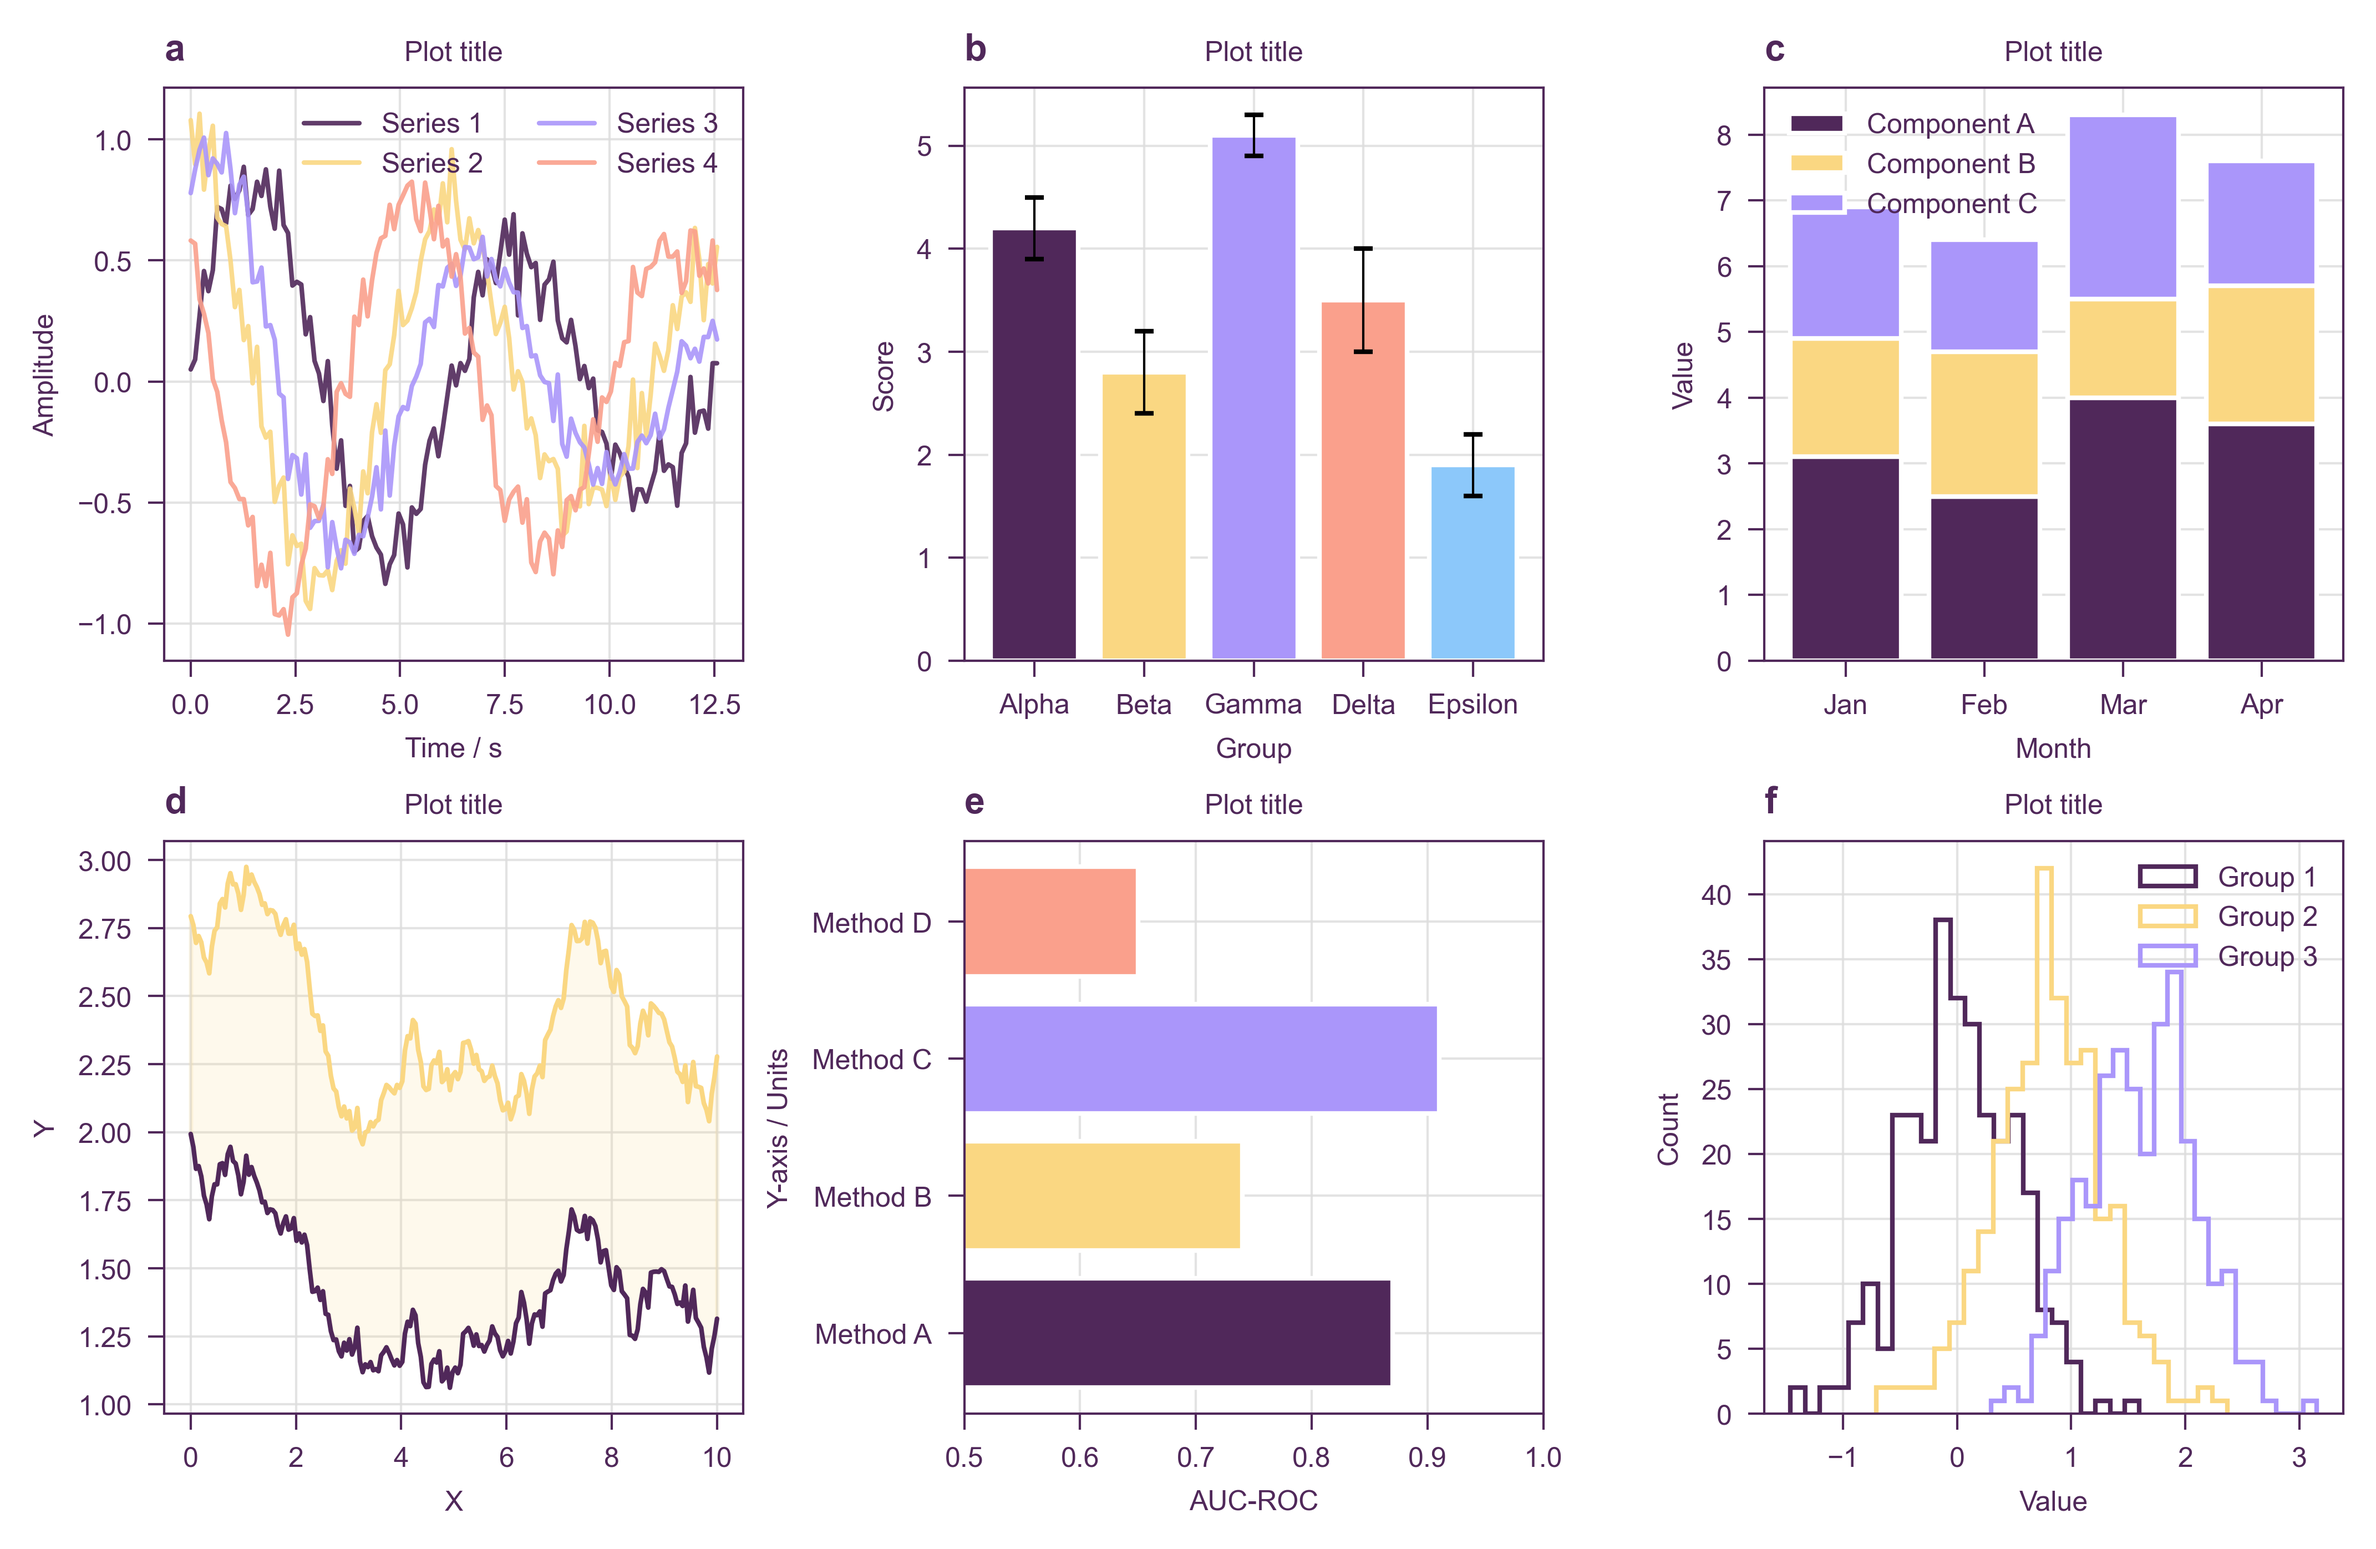
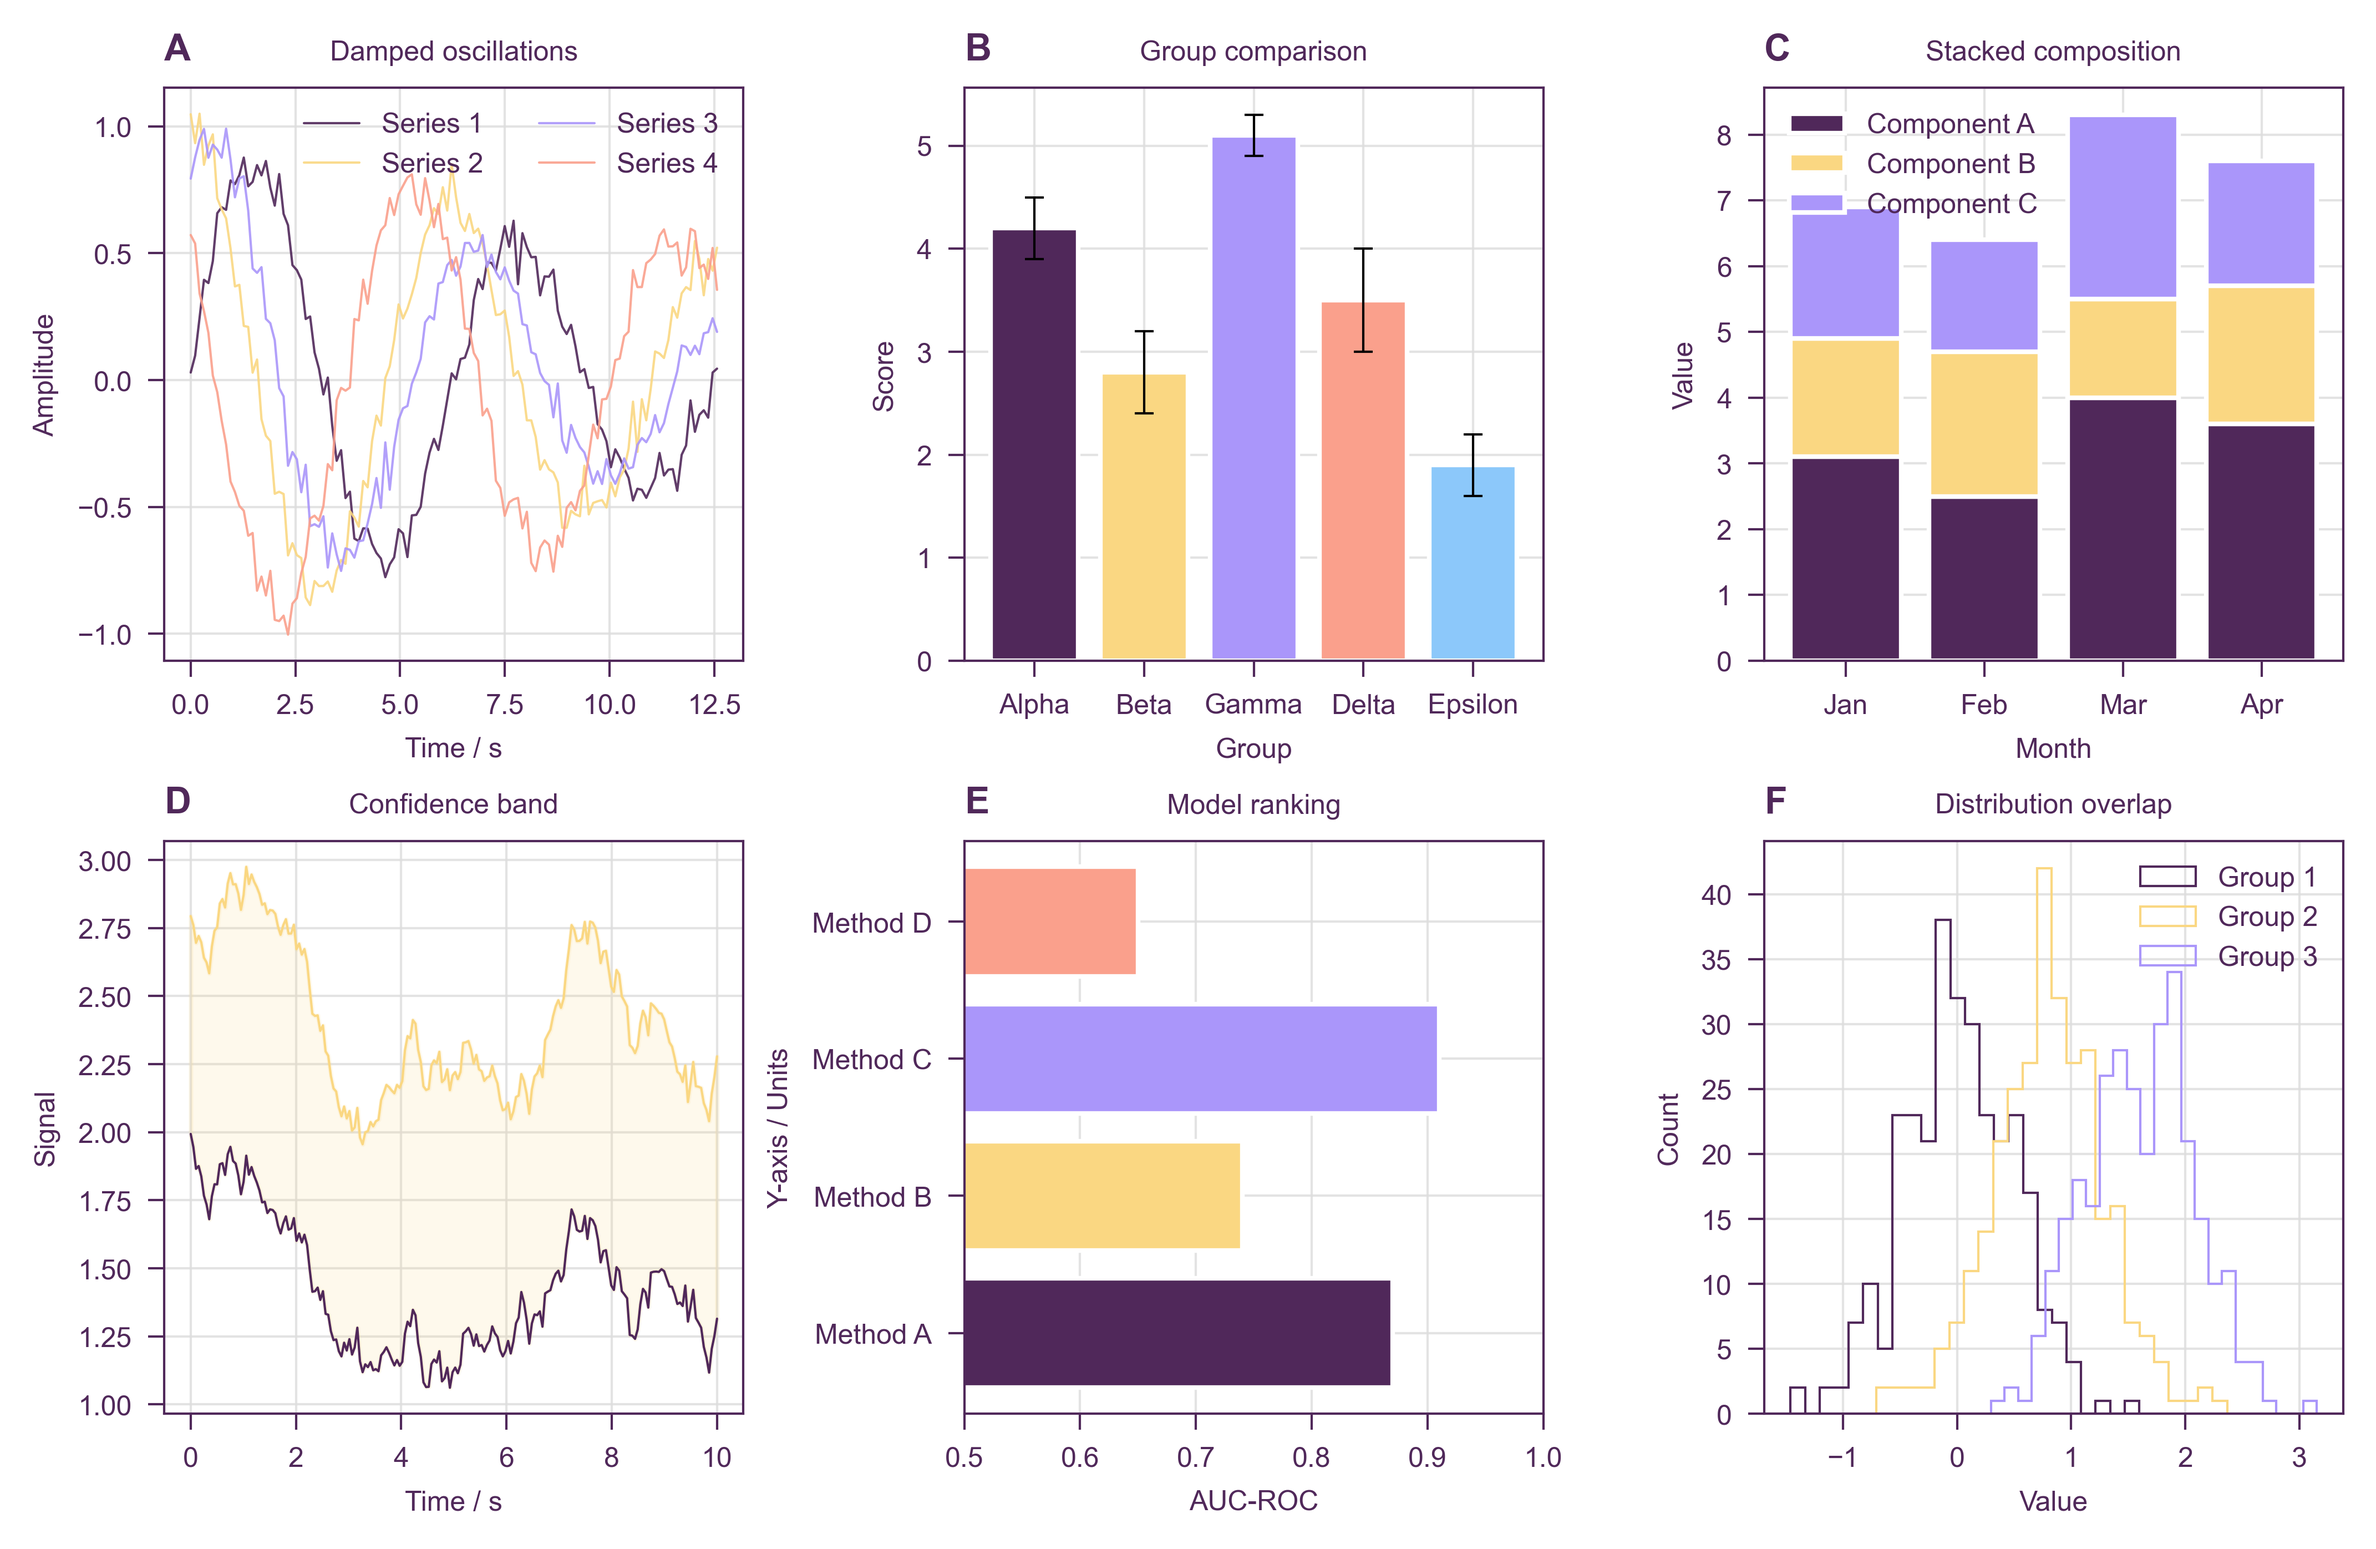
Polish demo figures: thin lines, whisker control, real titles, uppercase ABC labels
- Use LINEWIDTH (not LINEWIDTH_THICK) for all plot lines by default
- Pass capthick=lw to error bars so whiskers match line weight
- Add descriptive titles to each panel
- Use uppercase A–F for panel labels
- Remove default "Plot title" placeholder from stylize()

diff --git a/make_demo.py b/make_demo.py
@@ -14,10 +14,10 @@ x = np.linspace(0, 4 * np.pi, 120)
 
 # line data: 4 smooth curves
 lines_y = [
-    np.sin(x) * np.exp(-0.08 * x) + 0.1 * np.random.randn(len(x)),
-    np.cos(x) * np.exp(-0.06 * x) + 0.1 * np.random.randn(len(x)),
-    np.sin(x + 1) * np.exp(-0.10 * x) + 0.08 * np.random.randn(len(x)),
-    np.cos(x + 1) * np.exp(-0.05 * x) + 0.08 * np.random.randn(len(x)),
+    np.sin(x) * np.exp(-0.08 * x) + 0.06 * np.random.randn(len(x)),
+    np.cos(x) * np.exp(-0.06 * x) + 0.06 * np.random.randn(len(x)),
+    np.sin(x + 1) * np.exp(-0.10 * x) + 0.06 * np.random.randn(len(x)),
+    np.cos(x + 1) * np.exp(-0.05 * x) + 0.06 * np.random.randn(len(x)),
 ]
 
 # bar data
@@ -31,7 +31,7 @@ stack_a = np.array([3.1, 2.5, 4.0, 3.6])
 stack_b = np.array([1.8, 2.2, 1.5, 2.1])
 stack_c = np.array([2.0, 1.7, 2.8, 1.9])
 
-# horizontal bar (sorted)
+# horizontal bar
 hbar_labels = ["Method A", "Method B", "Method C", "Method D"]
 hbar_values = np.array([0.87, 0.74, 0.91, 0.65])
 
@@ -47,27 +47,29 @@ def make_grid(style, outpath):
     from stylia import CategoricalPalette
     pal = CategoricalPalette(style if style == "ersilia" else "npg")
 
+    lw  = stylia.LINEWIDTH        # thin default
+    lwt = stylia.LINEWIDTH_THICK  # for emphasis only
+
     fig, axs = stylia.create_figure(2, 3, width=1.0, height=0.65)
 
     # ── panel A: multi-line ──────────────────────────────────────────────────
     ax = axs.next()
-    lw = stylia.LINEWIDTH_THICK
     colors = pal.get(4)
     for i, (yi, col) in enumerate(zip(lines_y, colors)):
         ax.plot(x, yi, color=col, linewidth=lw, alpha=0.9, label=f"Series {i+1}")
     ax.set_xlabel("Time / s")
     ax.set_ylabel("Amplitude")
     ax.legend(frameon=False, ncol=2)
-    stylia.label(ax, abc="a")
+    stylia.label(ax, title="Damped oscillations", abc="A")
 
     # ── panel B: bar + error bars ────────────────────────────────────────────
     ax = axs.next()
     colors_b = pal.get(len(bar_labels))
     ax.bar(bar_labels, bar_values, yerr=bar_err, color=colors_b,
-           error_kw=dict(linewidth=stylia.LINEWIDTH, capsize=2))
+           error_kw=dict(linewidth=lw, capsize=2, capthick=lw))
     ax.set_xlabel("Group")
     ax.set_ylabel("Score")
-    stylia.label(ax, abc="b")
+    stylia.label(ax, title="Group comparison", abc="B")
 
     # ── panel C: stacked bar ─────────────────────────────────────────────────
     ax = axs.next()
@@ -78,7 +80,7 @@ def make_grid(style, outpath):
     ax.set_xlabel("Month")
     ax.set_ylabel("Value")
     ax.legend(frameon=False)
-    stylia.label(ax, abc="c")
+    stylia.label(ax, title="Stacked composition", abc="C")
 
     # ── panel D: area / filled lines ─────────────────────────────────────────
     ax = axs.next()
@@ -86,9 +88,9 @@ def make_grid(style, outpath):
     ax.plot(area_x, area_y1, color=c2[0], linewidth=lw)
     ax.plot(area_x, area_y2, color=c2[1], linewidth=lw)
     ax.fill_between(area_x, area_y1, area_y2, color=c2[1], alpha=0.15)
-    ax.set_xlabel("X")
-    ax.set_ylabel("Y")
-    stylia.label(ax, abc="d")
+    ax.set_xlabel("Time / s")
+    ax.set_ylabel("Signal")
+    stylia.label(ax, title="Confidence band", abc="D")
 
     # ── panel E: horizontal bar ───────────────────────────────────────────────
     ax = axs.next()
@@ -96,9 +98,9 @@ def make_grid(style, outpath):
     ax.barh(hbar_labels, hbar_values, color=colors_h)
     ax.set_xlabel("AUC-ROC")
     ax.set_xlim(0.5, 1.0)
-    stylia.label(ax, abc="e")
+    stylia.label(ax, title="Model ranking", abc="E")
 
-    # ── panel F: step / histogram-style ──────────────────────────────────────
+    # ── panel F: step histogram ───────────────────────────────────────────────
     ax = axs.next()
     c4 = pal.get(3)
     for j, col in enumerate(c4):
@@ -108,7 +110,7 @@ def make_grid(style, outpath):
     ax.set_xlabel("Value")
     ax.set_ylabel("Count")
     ax.legend(frameon=False)
-    stylia.label(ax, abc="f")
+    stylia.label(ax, title="Distribution overlap", abc="F")
 
     stylia.save_figure(outpath)
     print(f"Saved {outpath}")

diff --git a/stylia/figure/figure.py b/stylia/figure/figure.py
@@ -8,7 +8,6 @@ def stylize(ax):
     ax.set_prop_cycle("color", get_color_cycle())
     ax.set_xlabel("X-axis / Units")
     ax.set_ylabel("Y-axis / Units")
-    ax.set_title("Plot title")
 
     # Light grid so it doesn't compete with data
     try:
